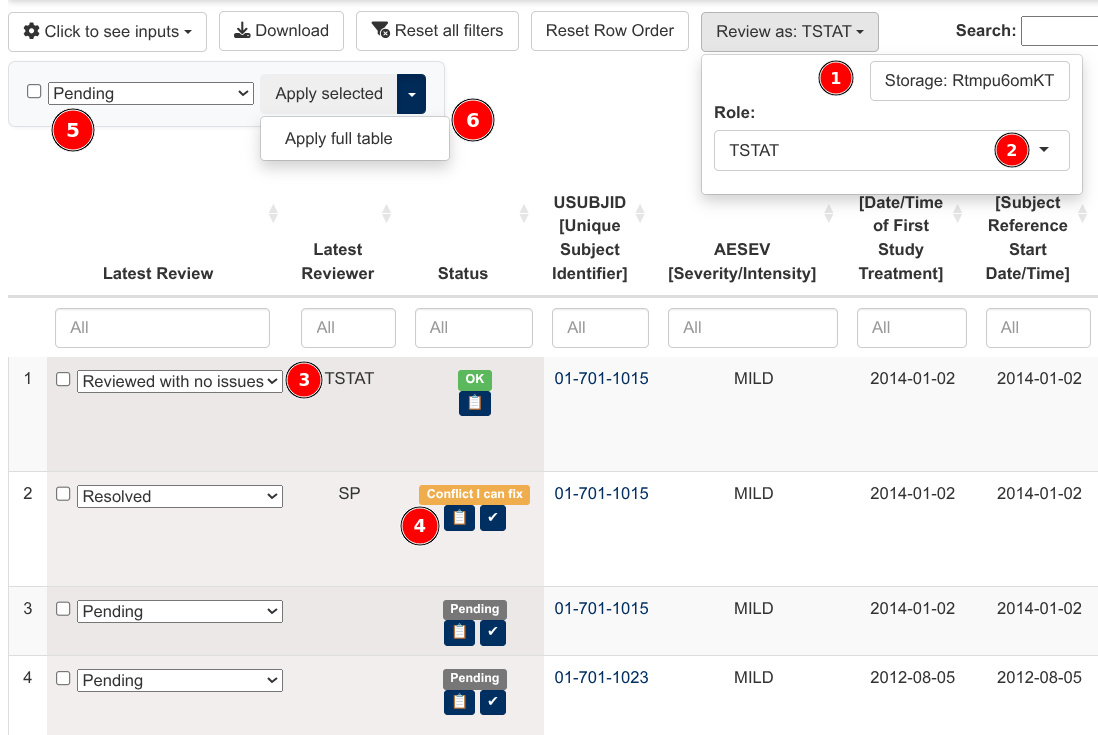
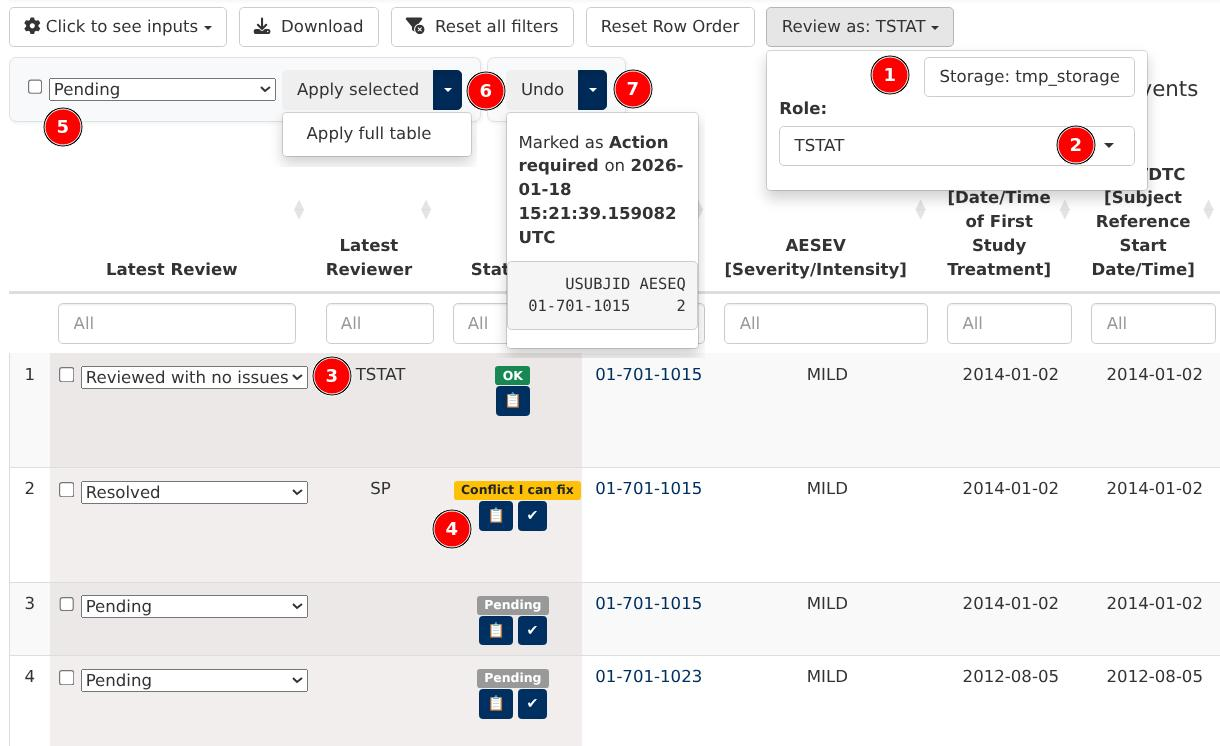
[review] Add undo spec. Document undo action representation.

diff --git a/NEWS.md b/NEWS.md
@@ -1,5 +1,5 @@
 # dv.listings 4.3.1-9000
-- PLACEHOLDER FOR UPCOMING UNDO FEATURE
+- Per-role review undo.
 
 # dv.listings 4.3.1
 
